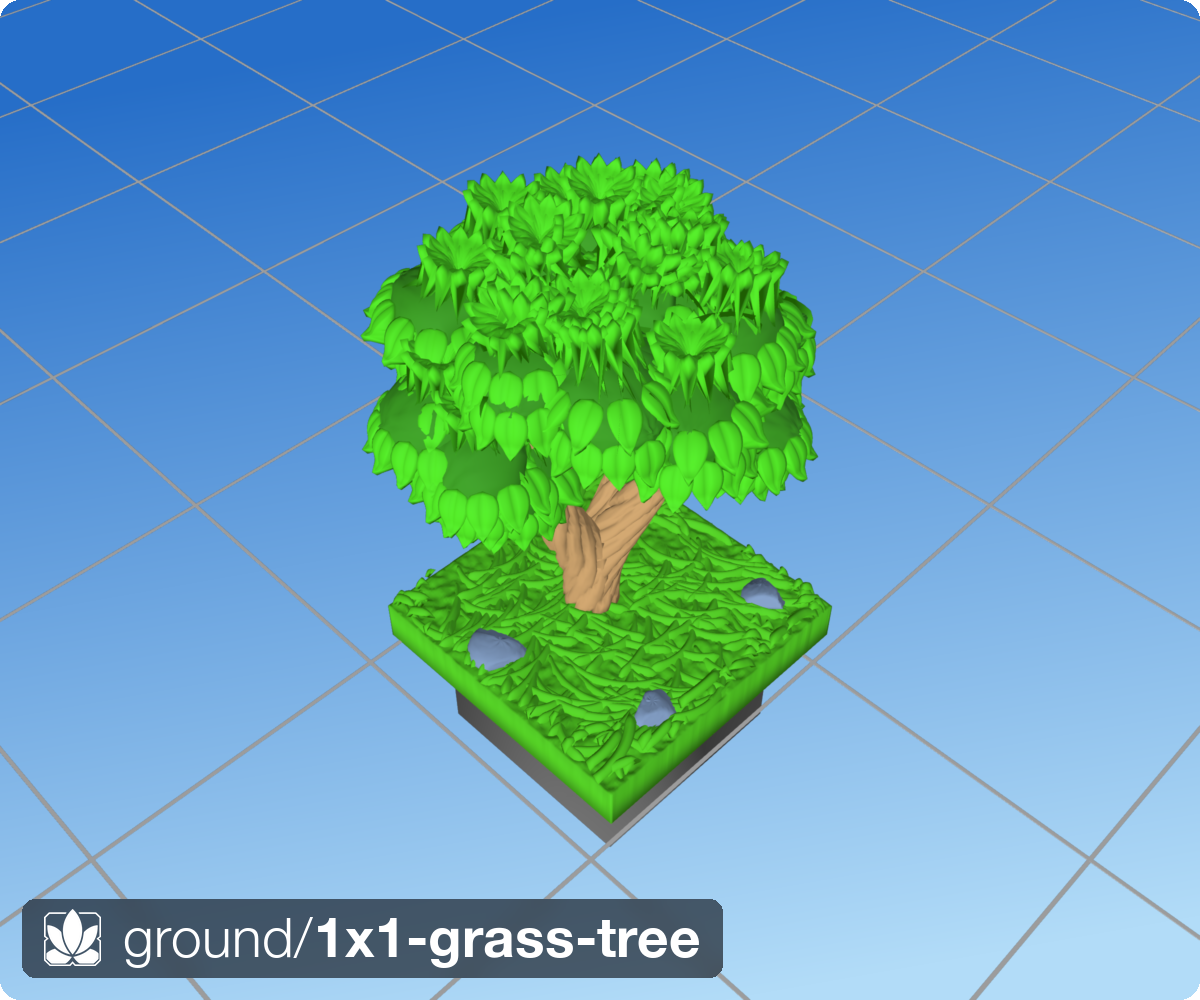
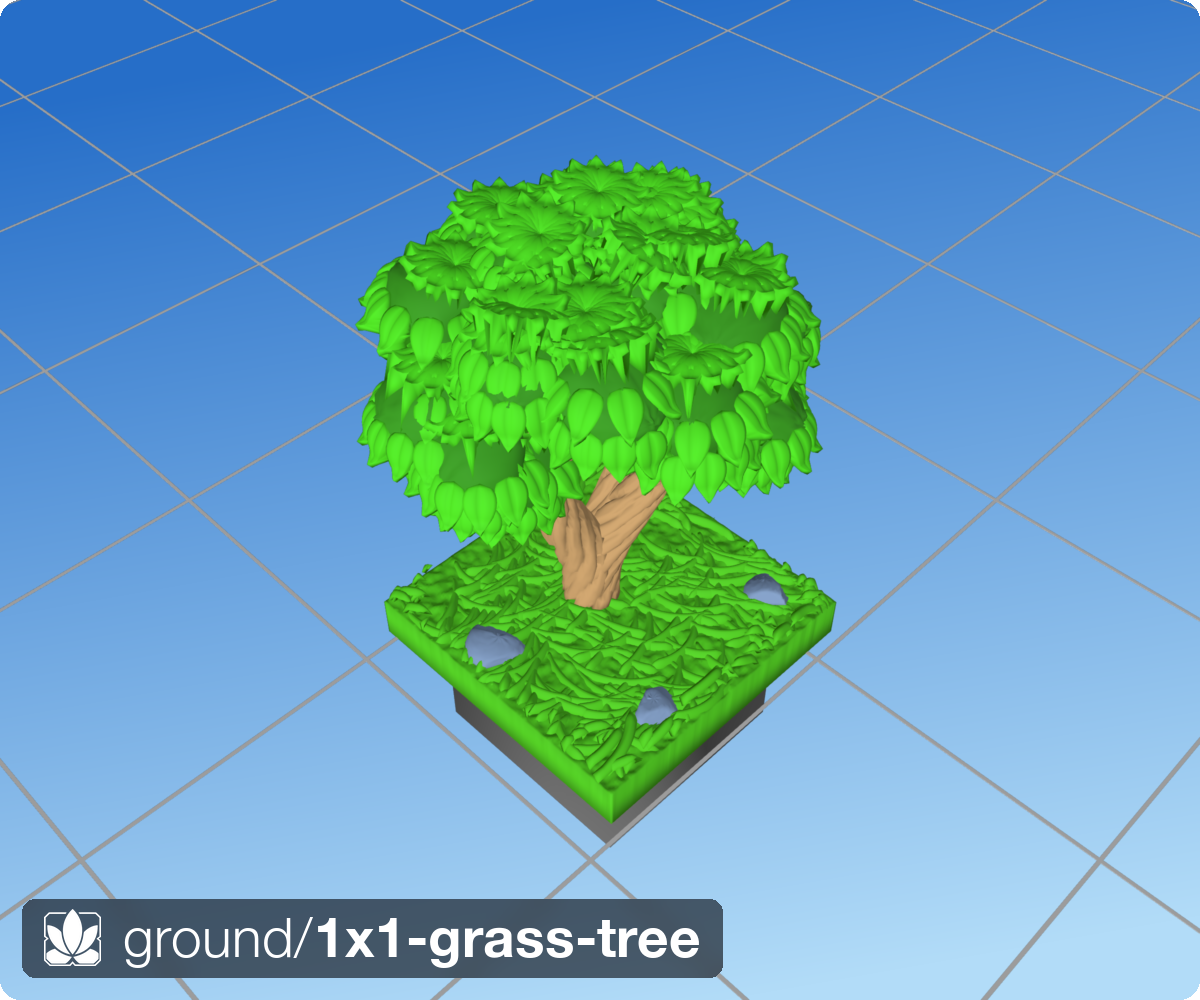
trees: fix upward-pointing leaves on foliage clusters
Three related fixes for leaves pointing straight up:

1. Apex cap contact angle — the apex cap added in the previous commit
   called build_leaf_surface directly with tangent=T0 (horizontal) and
   up_hint=apex_up (vertical).  lift_mm then curved the tip upward,
   producing vertical spikes.  Now the apex cap applies the same contact-
   angle tilt used by body leaves (using _ca_cache keyed on r_tip), so
   each apex leaf is angled downward into the dome surface before lift
   curves it back outward.

2. Skip underside leaves — at the cluster's back hemisphere the mesh
   centroid → surface-point vector points downward (outward.z < 0).
   When up_hint is downward the contact-angle tilt pushes tangent
   upward instead of into the sphere, producing spikes.  The bottom
   is hidden by the branch anyway, so we now skip any Z-slice leaf
   where outward.z < -0.1.

3. Instrumentation — _emit_leaf now emits a RuntimeWarning when the
   post-tilt tangent_z > 0.707 (leaf pointing more than 45° upward),
   so any future regression is immediately visible in build output.

Side effect: face count drops ~88k (516k vs 604k) by removing the
hidden underside leaves.

diff --git a/src/dharmatiles/trees/mesh.py b/src/dharmatiles/trees/mesh.py
@@ -1068,6 +1068,20 @@ def _build_foliage_cluster_mesh(
             tangent   = _safe_norm(T0 * c_ca - up_hint * s_ca)
             up_placed = _safe_norm(up_hint * c_ca + T0 * s_ca)
 
+            # Instrumentation: a leaf pointing strongly upward (tangent_z > 0.7)
+            # means the contact angle or up_hint is wrong — the leaf tip will
+            # spike out of the canopy top rather than lying along the surface.
+            if float(tangent[2]) > 0.707:
+                warnings.warn(
+                    f"[foliage] upward-pointing leaf: edge={edge_id} key={key!r} "
+                    f"tangent_z={float(tangent[2]):.3f} "
+                    f"contact_angle={float(np.degrees(contact_angle)):.1f}° "
+                    f"up_hint_z={float(up_hint[2]):.3f} "
+                    f"cluster_r={cluster_radius_mm:.2f}mm",
+                    RuntimeWarning,
+                    stacklevel=2,
+                )
+
             leaf_surface_kwargs = dict(
                 length_mm=eff_length_mm,
                 width_mm=eff_width_mm,
@@ -1156,6 +1170,13 @@ def _build_foliage_cluster_mesh(
                             if raw_len < 1e-6:
                                 continue
                             outward = raw_out / raw_len
+                            # Skip the underside of the cluster: when the
+                            # outward direction points downward the contact-
+                            # angle formula flips and the leaf tangent ends up
+                            # pointing upward (into the canopy).  The cluster
+                            # underside is hidden by the branch anyway.
+                            if float(outward[2]) < -0.1:
+                                continue
                             # Local radius: actual distance from section
                             # centroid to this perimeter point.  Correct for
                             # the cone body (r_wood…r_tip) and dome sides.
@@ -1190,13 +1211,37 @@ def _build_foliage_cluster_mesh(
                 + _foliage_coarse_noise(apex_smooth[None, :], edge_id, bark_seed)[0]
             )
             apex_base = apex_smooth + apex_up * (disp_apex - noise_peak)
+
+            # Contact angle for the full foliage radius (valid at the dome apex
+            # where the cluster radius is r_tip).  Same cache as body leaves.
+            _apex_ca_key = (
+                round(r_tip, 4), round(float(leaf_length_mm), 4),
+                round(float(leaf_width_mm), 4),
+                round(float(leaf_curl_deg), 4), round(float(leaf_lift_mm), 4),
+            )
+            if _apex_ca_key not in _ca_cache:
+                _ca_cache[_apex_ca_key] = _contact_angle_for_sphere(
+                    r_tip, **_ca_leaf_kwargs,
+                )
+            apex_ca = _ca_cache[_apex_ca_key]
+            # If somehow invalid, fall through to 0 (no tilt) rather than skip.
+            if apex_ca >= np.pi / 2:
+                apex_ca = 0.0
+            c_apex = float(np.cos(apex_ca))
+            s_apex = float(np.sin(apex_ca))
+
             for ci in range(leaf_cap_count):
-                phi   = 2.0 * np.pi * ci / float(leaf_cap_count)
-                T0    = _safe_norm(np.cos(phi) * e1 + np.sin(phi) * e2)
+                phi    = 2.0 * np.pi * ci / float(leaf_cap_count)
+                T0_raw = _safe_norm(np.cos(phi) * e1 + np.sin(phi) * e2)
+                # Apply contact angle: tilts T0_raw downward from apex_up so
+                # the leaf tip presses into the sphere surface rather than
+                # curling straight up via lift_mm.
+                tangent   = _safe_norm(T0_raw * c_apex - apex_up * s_apex)
+                up_placed = _safe_norm(apex_up  * c_apex + T0_raw * s_apex)
                 lseed = _hash01_int(bark_seed, "apex-leaf", edge_id, ci)
                 try:
                     leaf_surf = build_leaf_surface(
-                        base_pos=apex_base, tangent=T0, up_hint=apex_up,
+                        base_pos=apex_base, tangent=tangent, up_hint=up_placed,
                         length_mm=float(leaf_length_mm),
                         width_mm=float(leaf_width_mm),
                         thickness_mm=float(leaf_thickness_mm),
@@ -1208,7 +1253,7 @@ def _build_foliage_cluster_mesh(
                         seed=lseed,
                     )
                     solid, _ = solidify_leaf(
-                        leaf_surf, apex_up, parent_mesh=cluster_mesh
+                        leaf_surf, up_placed, parent_mesh=cluster_mesh
                     )
                 except (RuntimeError, ValueError):
                     continue
